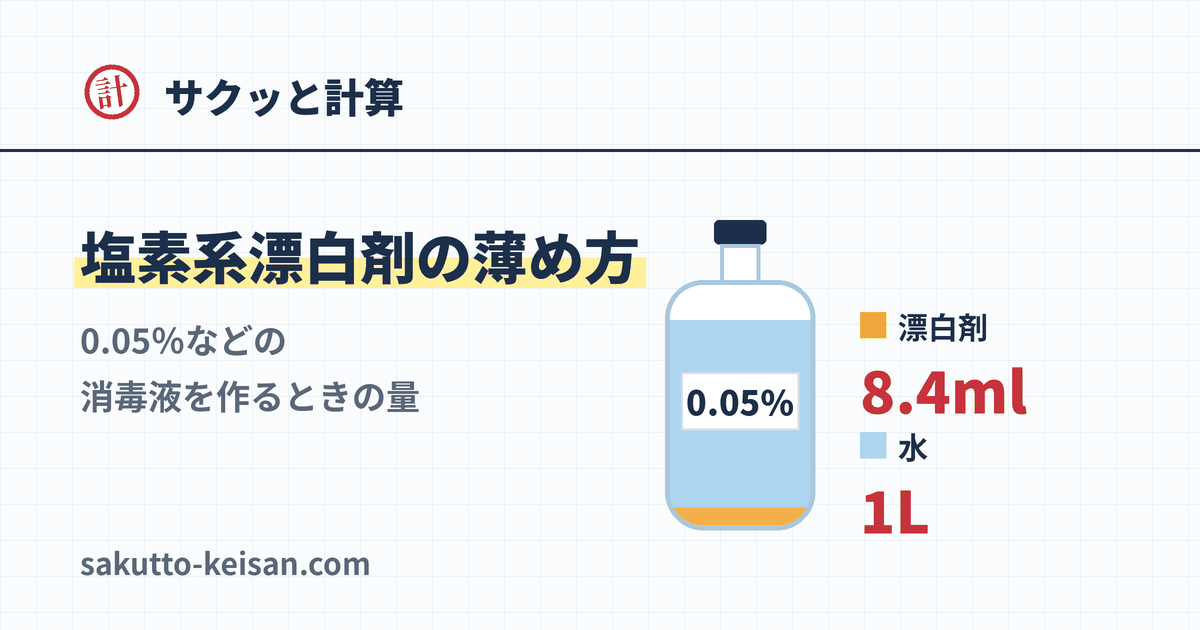
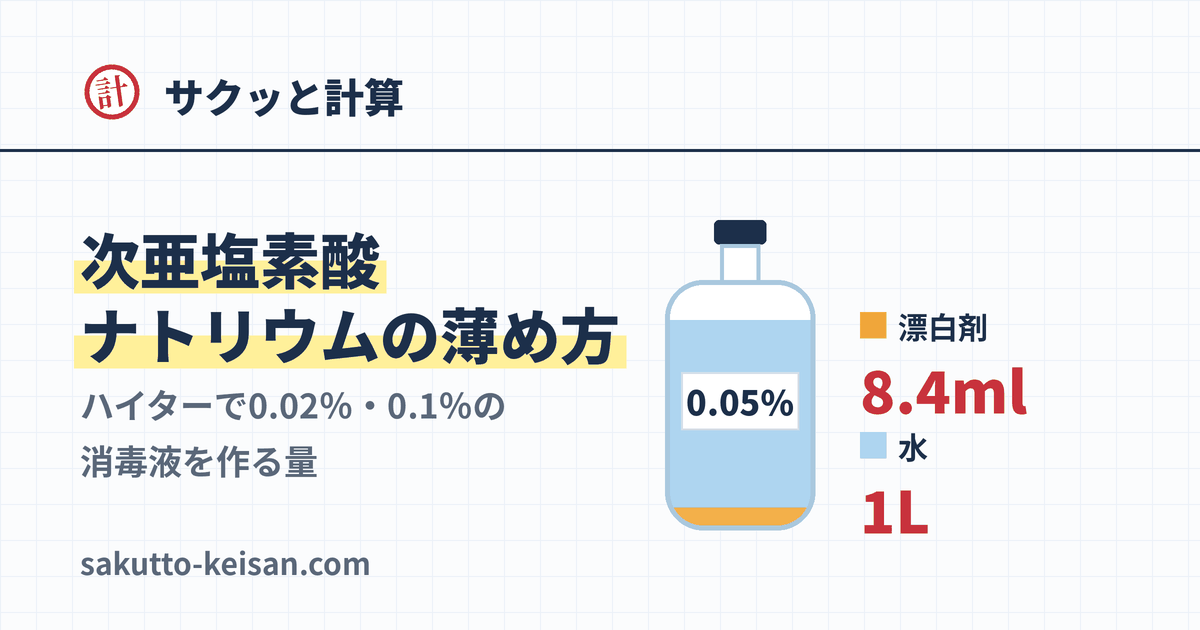
漂白剤のページを「次亜塩素酸ナトリウムの薄め方」に (#9)
- ノロウイルス対策で探す人に伝わるように名前・title・リード・説明・共有画像を変える（URL /hyohakuzai/ はそのまま）
- 次亜塩素酸水とまぎれないよう「次亜塩素酸ナトリウム」まで書き、よくある質問に「次亜塩素酸水とはちがう」を足す
- ノロウイルスの対策では0.02％と0.1％を使うことを1文で（目黒区）
- 長い h1 は360pxで少し小さく、共有画像の長い題は2行に。トップの更新日はトップに出ているツールだけで決める

Claude-Session: https://claude.ai/code/session_018QaCnXxoAb3HXQupiSjCkb

Changed region(s): [[0.0617, 0.3619, 0.555, 0.6635], [0.0617, 0.6937, 0.2775, 0.754]]

diff --git a/src/styles/site.css b/src/styles/site.css
@@ -122,6 +122,7 @@ h1 {
   background: linear-gradient(transparent 60%, var(--marker) 60%);
   -webkit-box-decoration-break: clone; box-decoration-break: clone;
 }
+@media (max-width: 374px) { h1.is-long { font-size: 21px; } } /* 長い名前（次亜塩素酸ナトリウムの薄め方）を1行に */
 .lead { margin: 6px 0 16px; color: var(--muted); font-size: 15px; line-height: 1.6; }
 .ico { width: 22px; height: 22px; flex: none; }
 

diff --git a/scripts/make-images.py b/scripts/make-images.py
@@ -291,18 +291,29 @@ def og(path, title, sub, theme, slug=None):
     # 題：黄色のマーカーを引いたように
     max_w = (540 if has_visual else 1040) * S
     size = 100
-    while d.textlength(title, font=font('black', size)) > max_w and size > 56:
+    while '\n' not in title and d.textlength(title, font=font('black', size)) > max_w and size > 56:
         size -= 4
+    titles = [title]
+    if '\n' in title or d.textlength(title, font=font('black', size)) > max_w:
+        # 56 でも入らない長い題は2行に（tools.mjs の ogTitle の改行で切る。なければ助詞のあと）
+        titles = title.split('\n')[:2] if '\n' in title else wrap2(d, title, font('black', 64), max_w)[:2]
+        size = 64
+        while max(d.textlength(x, font=font('black', size)) for x in titles) > max_w and size > 40:
+            size -= 4
     f_title = font('black', size)
-    tw = d.textlength(title, font=f_title)
     ty = 214 * S
-    d.rectangle([left - 6 * S, ty + size * S * 0.78, left + tw + 6 * S, ty + size * S * 1.32], fill=t['marker'])
-    d.text((left, ty), title, font=f_title, fill=t['text'])
+    step = round(size * 1.25)
+    for i, line in enumerate(titles):
+        y = ty + i * step * S
+        tw = d.textlength(line, font=f_title)
+        d.rectangle([left - 6 * S, y + size * S * 0.78, left + tw + 6 * S, y + size * S * 1.32], fill=t['marker'])
+        d.text((left, y), line, font=f_title, fill=t['text'])
     # 説明は2行まで。折り返すときは「、」や助詞のあとで、2行の長さがなるべくそろう所で切る
     f_sub = font('bold', 34 if has_visual else 38)
     lines = wrap2(d, sub, f_sub, max_w)
+    top_sub = ty // S + size + (len(titles) - 1) * step + (30 if len(titles) > 1 else 44)
     for i, line in enumerate(lines[:2]):
-        d.text((left, (ty // S + size + 44 + i * 56) * S), line, font=f_sub, fill=t['muted'])
+        d.text((left, (top_sub + i * 56) * S), line, font=f_sub, fill=t['muted'])
     d.text((left, 540 * S), 'sakutto-keisan.com', font=font('bold', 30), fill=t['muted'])
     if has_visual:
         VISUALS[slug](img, 890 * S, 240 * S)
@@ -336,7 +347,7 @@ def main():
     og(PUBLIC / 'og' / 'default.png', '生活の計算ツール', '割引後の値段、100gあたりの値段、レシピの分量、薄め方を計算できる無料のツール集', 'home')
     for t in tools:
         if t.get('published'):
-            title = t['name'].split('（')[0]
+            title = t.get('ogTitle') or t['name'].split('（')[0]
             og(PUBLIC / 'og' / f"{t['slug']}.png", title, t['short'], CATEGORY_THEME.get(t['category'], 'home'), t['slug'])
     icon(PUBLIC / 'icon-192.png', 192)
     icon(PUBLIC / 'icon-512.png', 512)

diff --git a/CLAUDE.md b/CLAUDE.md
@@ -32,7 +32,7 @@
 | `src/layout.mjs` | ページの外側（head・ヘッダー・フッター・構造化データ）と本文の部品 |
 | `src/parts.mjs` | ツールページの共通部品（関連ツール・WebApplication の構造化データ） |
 | `src/pages/*.mjs` | 1ファイル＝1ページ（`info.mjs` は固定ページ、`kishaku-uses.mjs` は希釈の使いみち別のページをまとめて）。default 関数が `{ path, html, sitemap, updated }`（またはその配列）を返す |
-| `src/mix.mjs` | 希釈の計算カードの部品（希釈率の計算と、使いみち別の「めんつゆ・塩素系漂白剤・液体肥料」で共通）。動きは `src/client/kishaku.js` 1つで、ページごとのちがい（マス・原液の呼び名・ボトルのラベル・キャップの目安）は `#calc` の `data-*` で渡す |
+| `src/mix.mjs` | 希釈の計算カードの部品（希釈率の計算と、使いみち別の「めんつゆ・次亜塩素酸ナトリウム・液体肥料」で共通）。動きは `src/client/kishaku.js` 1つで、ページごとのちがい（マス・原液の呼び名・ボトルのラベル・キャップの目安）は `#calc` の `data-*` で渡す |
 | `src/lib/*.mjs` | 計算のロジック（DOM を触らない。テストとブラウザの両方で使う） |
 | `src/client/*.js` | ブラウザ用の入口（1ツール1ファイル）。`*.mjs` は共通部品 |
 | `src/styles/site.css` | デザイン（色はテーマごとに `[data-theme]` で管理） |
